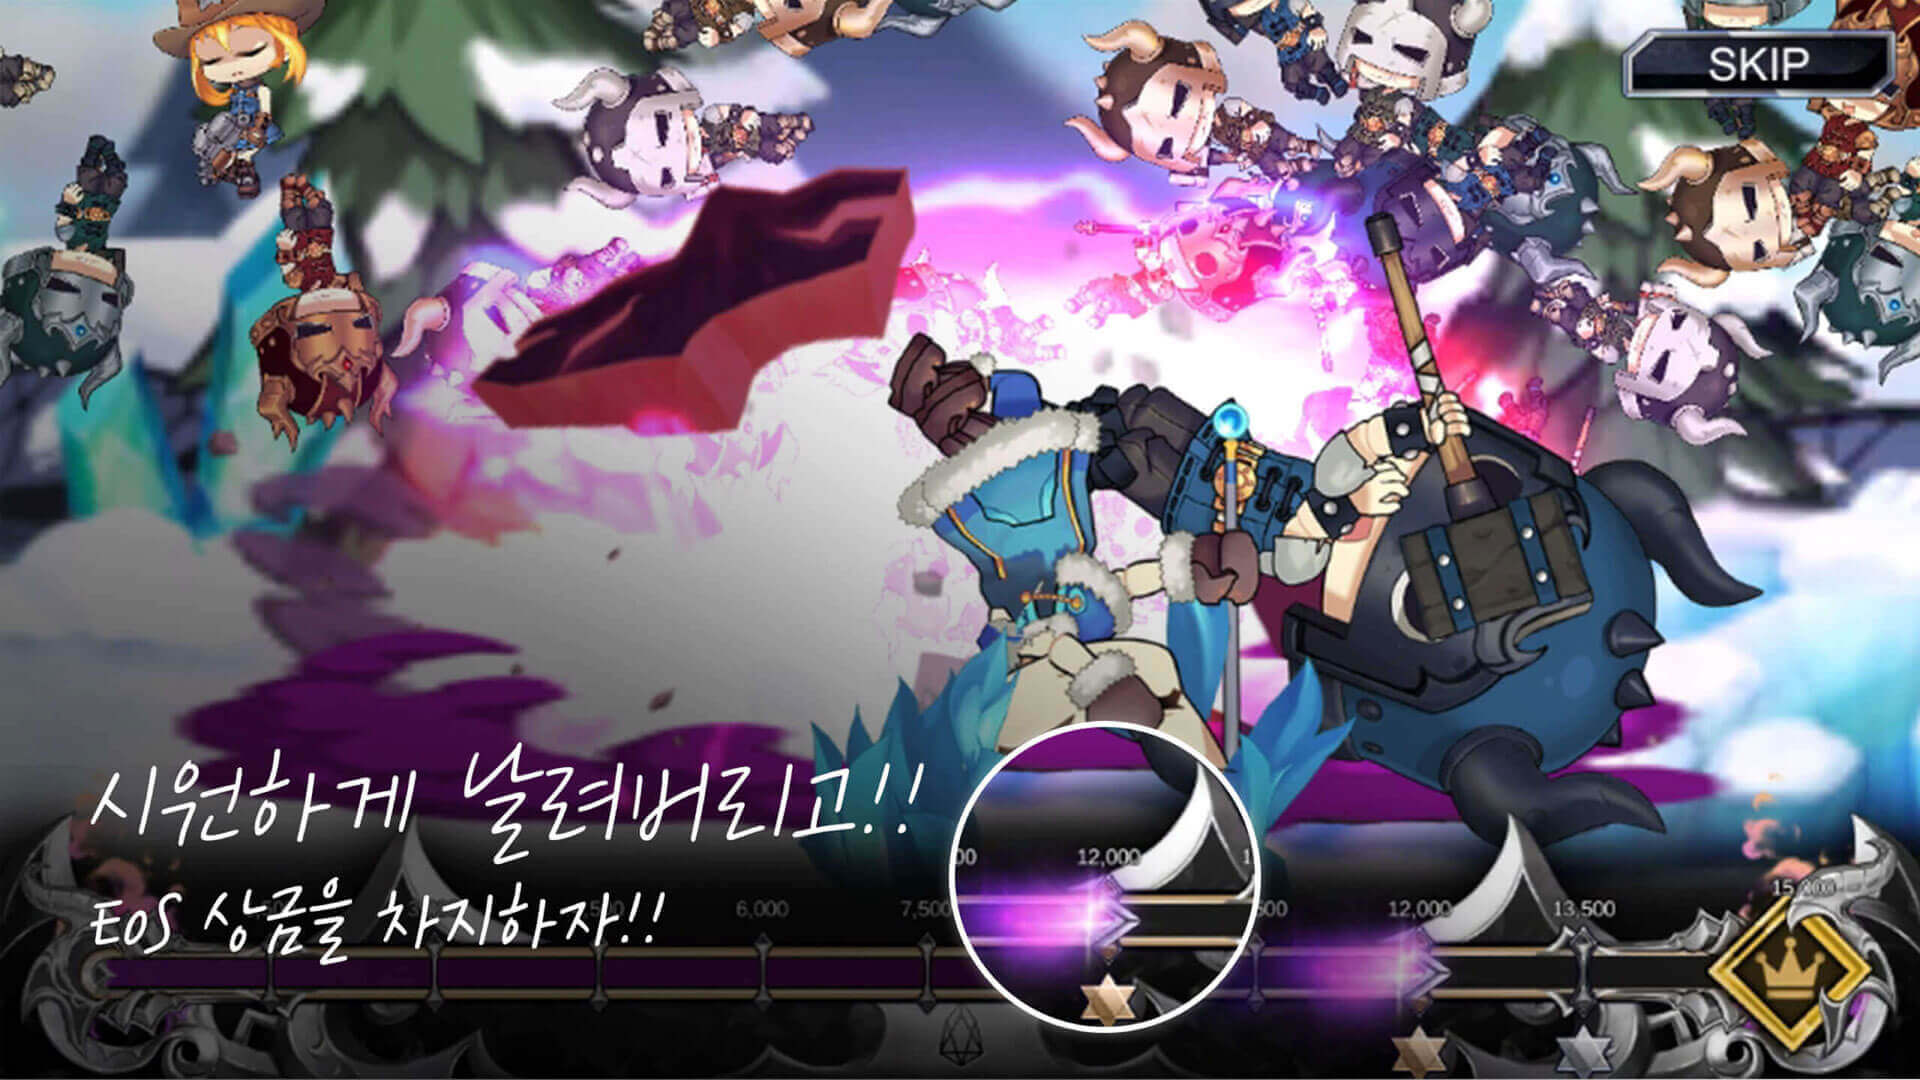
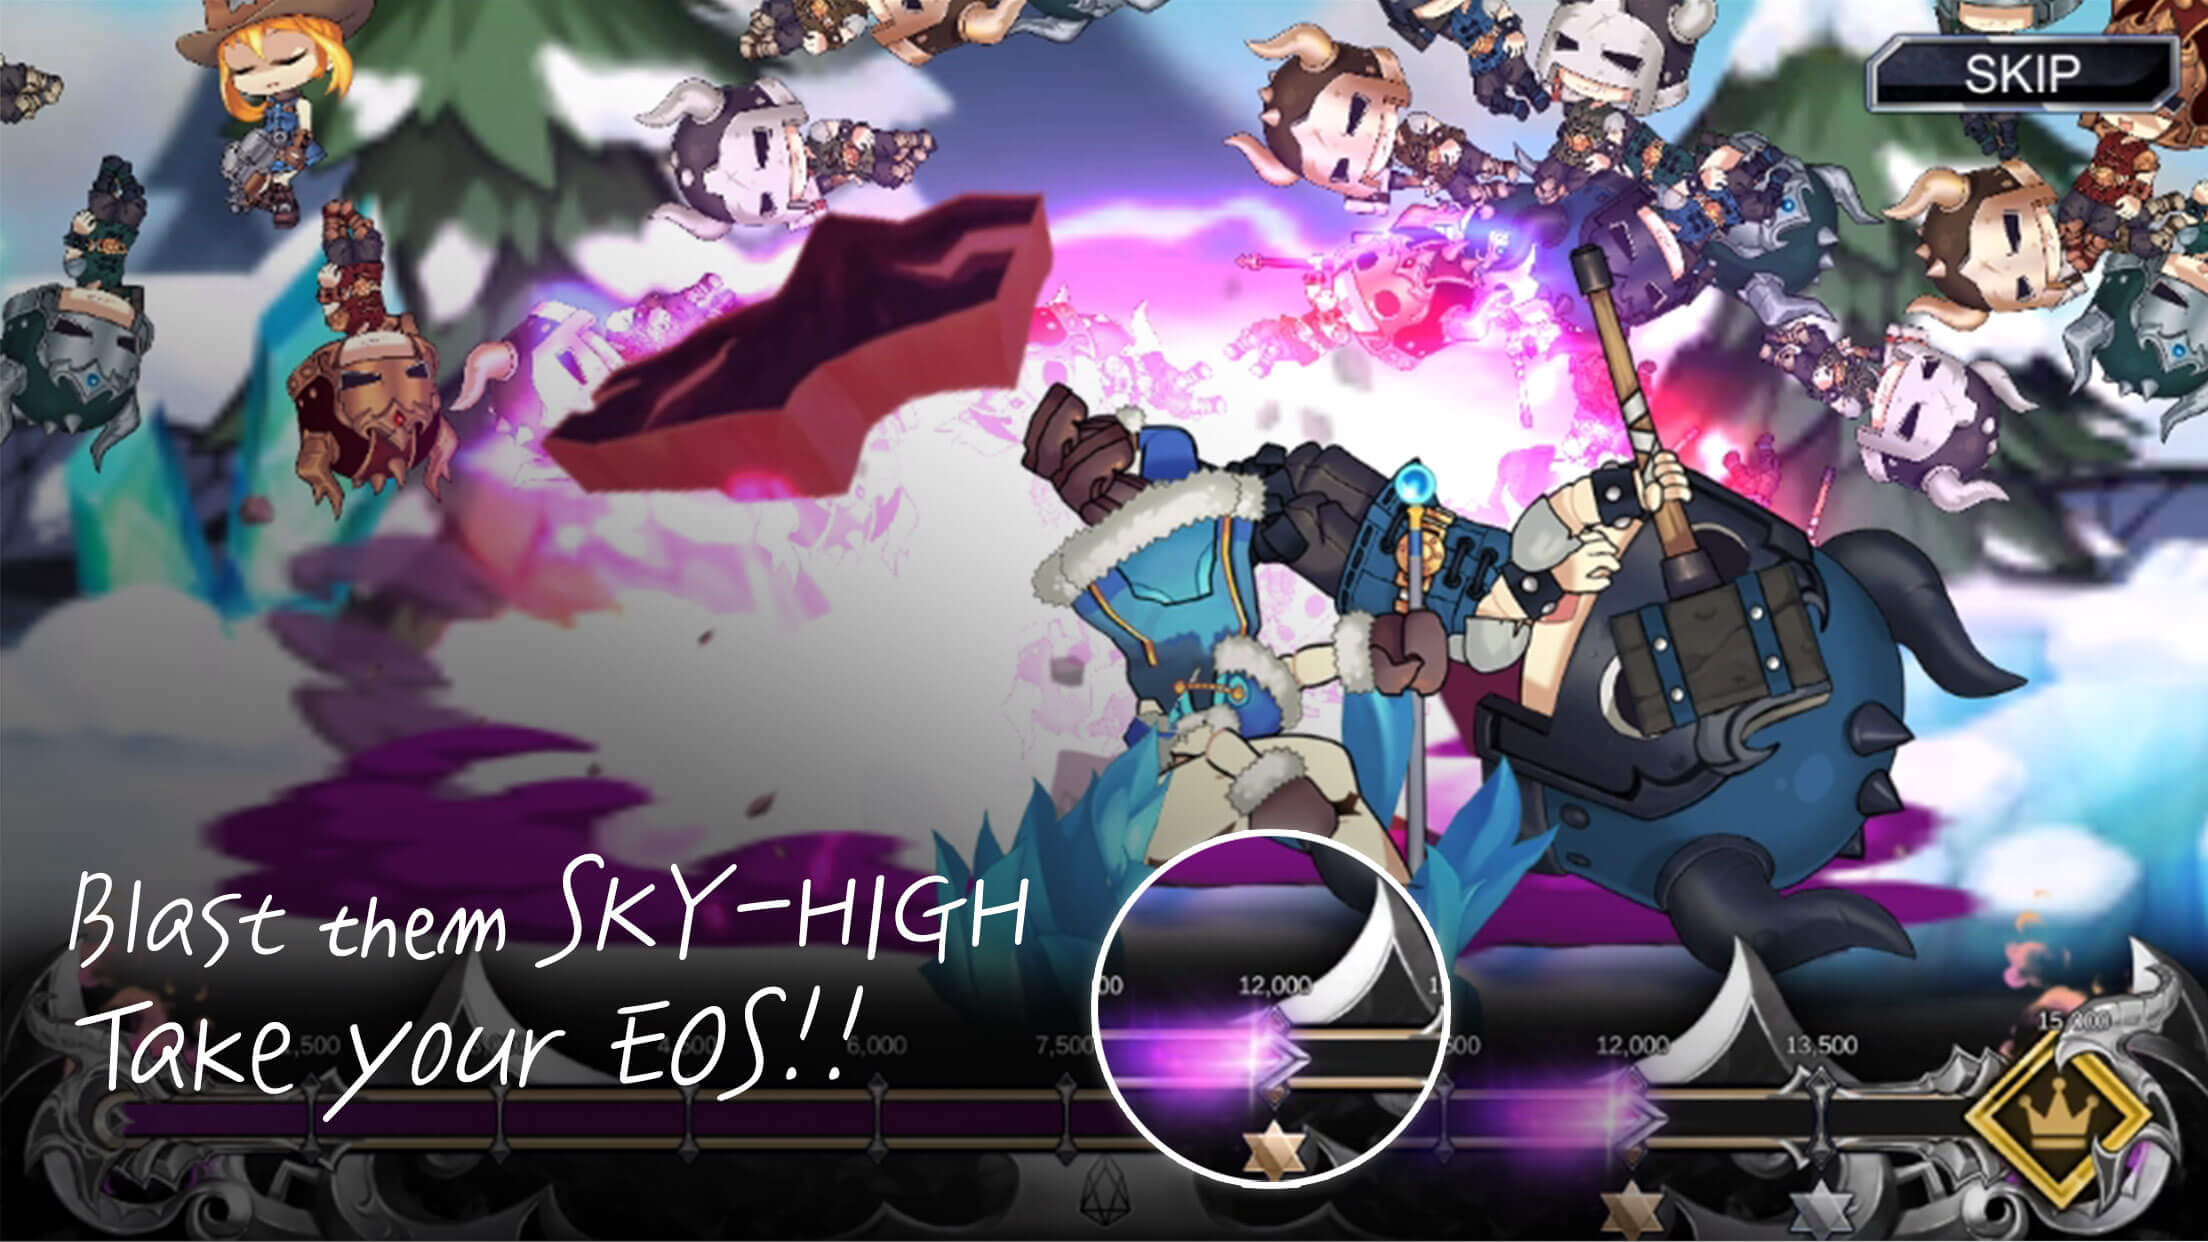
국문일때와 영문/중문일때 불러오는 이미지를 다르게 처리

Changed region(s): [[0.0312, 0.6722, 0.5, 0.8861], [0.5625, 0.9472, 0.5938, 0.9778]]

diff --git a/components/games/eos-blaterz/Description.vue b/components/games/eos-blaterz/Description.vue
@@ -17,17 +17,17 @@
                 </slide>
                 <slide class="items">
                     <div>
-                        <img src="../../../assets/images/img-blasterz-screenshot-01.jpg" alt="">
+                        <img :src="require(`../../../assets/images/img-blasterz-screenshot-${locale}01.jpg`)" alt="">
                     </div>
                 </slide>
                 <slide class="items">
                     <div>
-                        <img src="../../../assets/images/img-blasterz-screenshot-skip.jpg" alt="">
+                        <img :src="require(`../../../assets/images/img-blasterz-screenshot-${locale}skip.jpg`)" alt="">
                     </div>
                 </slide>
                 <slide class="items">
                     <div>
-                        <img src="../../../assets/images/img-blasterz-screenshot-03.jpg" alt="">
+                        <img :src="require(`../../../assets/images/img-blasterz-screenshot-${locale}03.jpg`)" alt="">
                     </div>
                 </slide>
             </carousel>
@@ -59,6 +59,11 @@
 
 <script>
 export default {
-    name : 'Description'
+    name : 'Description',
+    computed : {
+        locale () {
+            return this.$i18n.locale === 'ko' ? 'ko-' : ''
+        }
+    }
 }
 </script>
